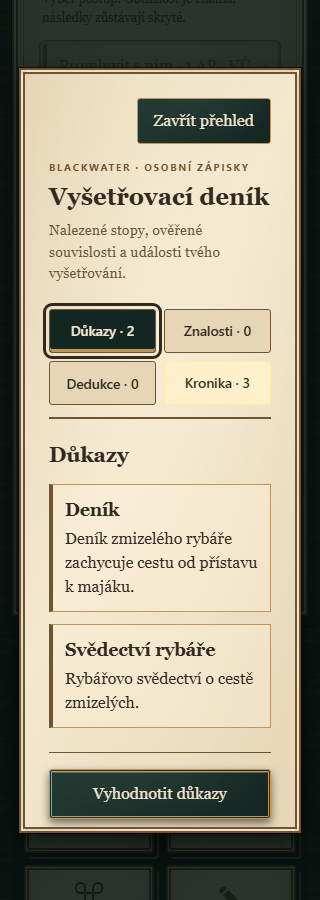
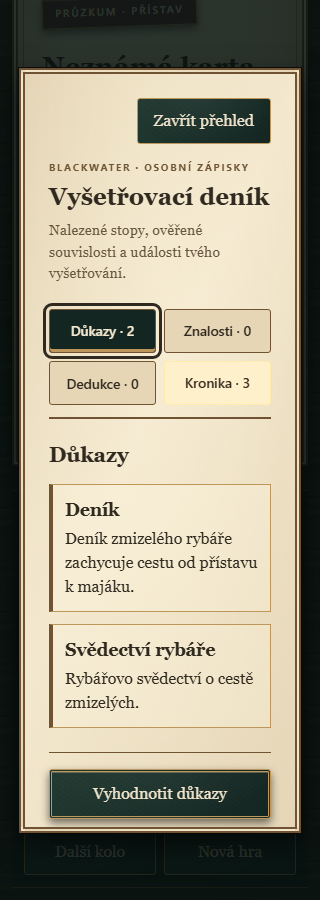
test: integrate M3.2 deck workflow with journal (#11)
Use explicit card draws and v4 saves in the journal E2E flow, and refresh the journal documentation and responsive screenshots for the integrated UI.

diff --git a/e2e/journal.spec.js b/e2e/journal.spec.js
@@ -2,17 +2,18 @@ import { test, expect } from '@playwright/test';
 
 const openJournal = page => page.getByRole('button', { name: 'Deník · důkazy', exact: true }).click();
 const tab = (page, name) => page.getByRole('tab', { name: new RegExp('^' + name + ' · ') });
-const saved = page => page.evaluate(() => localStorage.getItem('hlubiny-v3'));
+const saved = page => page.evaluate(() => localStorage.getItem('hlubiny-v4'));
 
 async function acquireEvidence(page) {
   await page.addInitScript(() => { Math.random = () => .5; });
   await page.goto('./');
   await page.clock.install();
   for (let i = 0; i < 2; i++) {
+    await page.locator('#draw').click();
     await page.locator('#roll').click();
     await page.clock.fastForward(1000);
     await expect(page.locator('#reveal')).toBeVisible();
-    if (!i) await page.locator('#next').click();
+    await page.locator('#next').click();
   }
 }
 
@@ -24,8 +25,10 @@ test('empty journal, all tabs, keyboard navigation and opening leave save untouc
   await page.keyboard.press('Escape');
   expect(await saved(page)).toBe(pristine);
   await expect(page.locator('#ap')).toHaveText('3');
+  await page.locator('#draw').click();
   await page.locator('#choices button').first().click(); // Persist a real state/revision.
   const before = await saved(page);
+  expect(before).not.toBeNull();
   await openJournal(page);
   await expect(page.getByRole('heading', { name: 'Vyšetřovací deník', exact: true })).toBeVisible();
   await expect(tab(page, 'Důkazy')).toHaveAttribute('aria-selected', 'true');

diff --git a/docs/M3-3-INVESTIGATION-JOURNAL.md b/docs/M3-3-INVESTIGATION-JOURNAL.md
@@ -1,12 +1,12 @@
-# M3.3 — Vyšetřovací deník (paralelní workstream)
+# M3.3 — Vyšetřovací deník a integrace M3.2
 
 ## Záměr
 Vytvořit přehledný, atmosférický vyšetřovací deník v duchu investigativní deskové hry. Hráč v něm sleduje nalezené důkazy, znalosti, dostupné dedukce a chronologii událostí, bez úniku budoucích příběhových informací.
 
-## Hranice vůči M3.2
-- **Nevstupovat do** `src/engine/game.js`, `src/engine/content.js`, `src/data/cards.js`, `src/engine/schema.js` ani save/migračních souborů.
-- Neimplementovat balíčky, shuffle, draw ani discard; to vlastní PR #8.
-- Nové UI vytvářet v izolovaných souborech `src/ui/journal.js`, `src/ui/journal.css` a vlastních testech; minimální integrace v `index.html` a `src/ui/app.js` je přípustná, ale musí být malá a dobře oddělená, aby šla po merge M3.2 jednoduše rebasovat.
+## Integrace s M3.2
+- Původní M3.3 workstream vznikal souběžně s M3.2 a jeho UI zůstává izolované v `src/ui/journal.js`, `src/ui/journal.css` a vlastních testech.
+- Po sloučení PR #8 obsahuje větev PR #10 společný engine, definice balíčků, save v4 a integrované UI.
+- Journal stále přijímá pouze bezpečnou veřejnou projekci a log; nevykonává akce balíčku ani nemění pravidla dobírání.
 - Pokud chybí data pro nějakou položku, použít pouze bezpečnou veřejnou projekci existujícího `investigationView(state)`, `state.log` a veřejné názvy; **nevymýšlet neveřejné informace**.
 
 ## Funkce
@@ -33,18 +33,18 @@ Aktualizovat existující Draft PR #10, doložit testy a screenshoty. **Bez merg
 
 Hotový deník má čtyři záložky Důkazy, Znalosti, Dedukce a Kronika s počty skutečně získaných záznamů. Připravené dedukce se oddělují od dokončených; zobrazují pouze veřejný název, popis a stav „Požadavky splněny“. Neveřejné podmínky ani chybějící požadavky nelze z veřejného API bezpečně zjistit a UI je nedoplňuje odhadem. Kronika řadí existující veřejný log od nejstaršího k nejnovějšímu.
 
-- [journal.js](../src/ui/journal.js) přijímá výhradně `investigationView(state)` a `state.log`. `journalModel` kopíruje povolená prezentační pole, nepřenáší definice efektů, podmínek, karet či budoucích voleb. Veškeré texty se vkládají přes `textContent`.
+- [journal.js](../src/ui/journal.js) přijímá výhradně `investigationView(state)` a veřejný `state.log`. `journalModel` kopíruje povolená prezentační pole, nepřenáší definice efektů, podmínek, karet či budoucích voleb. Veškeré texty se vkládají přes `textContent`.
 - [journal.css](../src/ui/journal.css) izoluje papírové rozhraní, kontrastní záložky a focus. Na 320/390 px se záložky skládají do dvou sloupců; dialog může svisle rolovat. Reduced-motion vypíná animace i přechody deníku.
 - Záložky používají `tablist`, `tab`, `tabpanel`, `aria-controls`, `aria-labelledby`, `aria-selected` a roving tabindex. Šipky vlevo/vpravo přepínají a cyklí záložky; Home/End skočí na první/poslední. Escape zavře existující dialog a obnoví focus na jeho původním tlačítku.
 - Otevření, zavření i přepínání jsou lokální stav UI, který se neukládá a neposílá akci enginu. Tlačítka Znalosti/Dedukce ve spodní liště otevřou příslušnou záložku. Jedinou herní akcí zůstává již existující explicitní „Vyhodnotit důkazy“; to je za běhu hodu a po konci hry zakázané.
-- Integrace: jeden nový stylesheet v [index.html](../index.html), veřejný log jako třetí parametr `journal.render` a výběr záložky při otevření v [app.js](../src/ui/app.js). Soubory enginu, save/migrací, scénáře, mapy a balíčků se nemění. Při integraci PR #8 stačí zachovat tento argument a výběr záložky, následně zopakovat testy.
+- Integrace: stylesheet v [index.html](../index.html); veřejná projekce, log a výběr záložky jsou propojené v [app.js](../src/ui/app.js). UI balíčků zůstává samostatnou kartovou sekcí; ovládání dialogu, dobírání ani přesunů si vzájemně nepřebírají fokus. E2E ověřuje oba moduly v aplikaci se save v4.
 
 ## Ověření dokončení
 
-- `npm test`: **46/46** úspěšných testů, z toho čtyři nové unit testy modelu deníku, reálné veřejné projekce a absence vedlejších efektů.
+- `npm test`: **55/55** úspěšných testů, včetně modelu deníku, balíčků, migrace a absence vedlejších efektů.
 - `npm run build`: úspěch, včetně existující validace obsahu.
-- `npm run test:e2e`: **33/33** úspěšných testů v Chromium, z toho šest nových testů deníku: prázdné stavy, reálné získání důkazů/dedukce, chronologie, bezpečný text, keyboard/focus, save/reload, readonly prohlížení i při dosud neuložené hře, reduced-motion a rozměry 1440/390/320 px.
+- `npm run test:e2e`: **37 Chromium E2E** po integračním běhu; sada zahrnuje deník i M3.2 dobírání, skryté výsledky, save/reload, keyboard/focus, reduced-motion a rozměry 1440/390/320 px.
 - `git diff --check`: bez chyb.
 - [Screenshoty a vizuální kontrola](test-artifacts/m3-3/README.md).
 
-PR #10 zůstává Draft bez merge. Tato větev neobsahuje implementaci balíčků PR #8.
+PR #10 zůstává Draft bez merge. Větev je rebazovaná na `main` po merge PR #8; zachovává zároveň balíčky M3.2 a deník M3.3.
